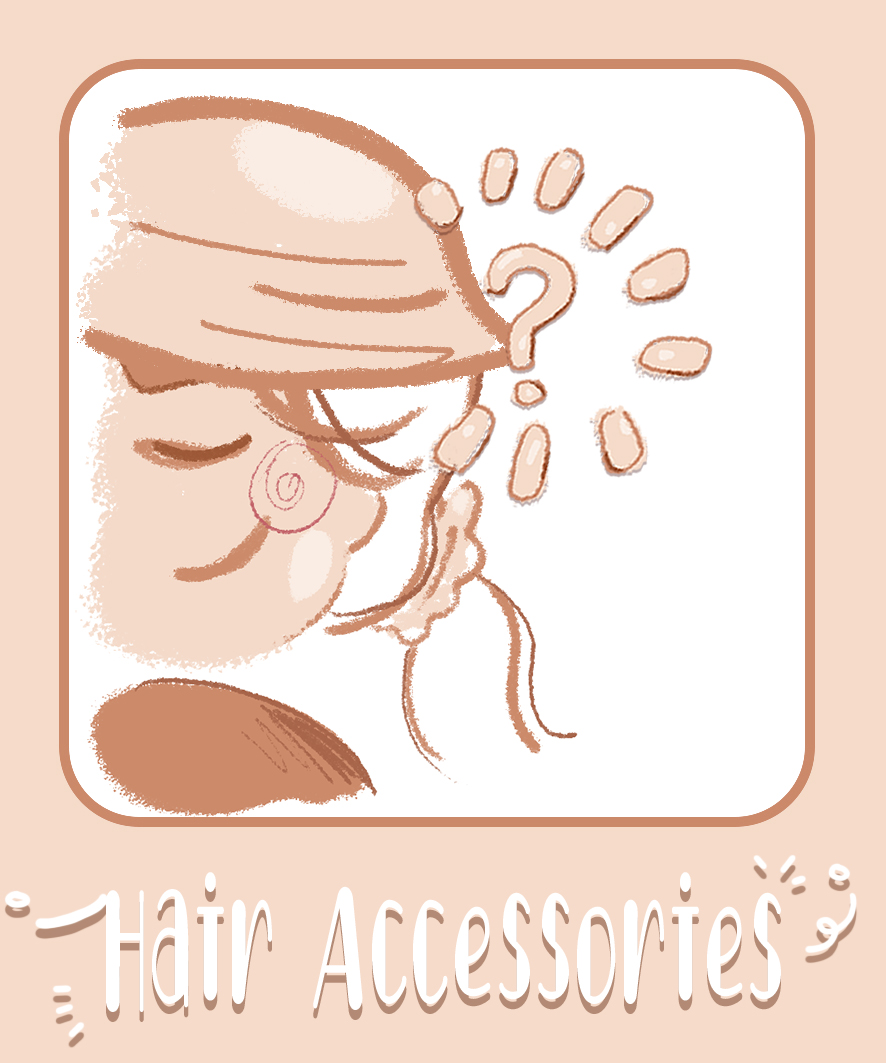
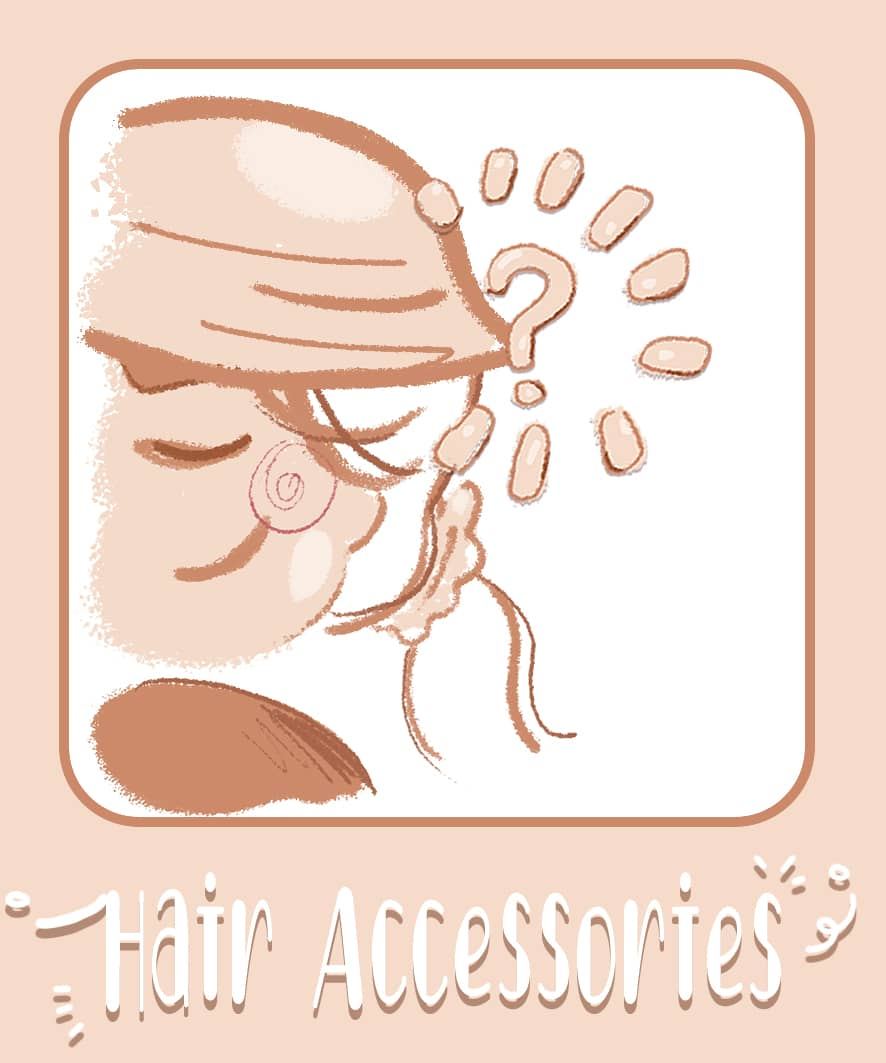
compress img size

diff --git a/src/modules/auth/views/SignupScreen.tsx b/src/modules/auth/views/SignupScreen.tsx
@@ -24,7 +24,7 @@ const SignupScreen = () => {
   const styles = authenticationStyles();
   const data = useStaticQuery(graphql`
     query {
-      file(relativePath: { eq: "icon.png" }) {
+      file(relativePath: { eq: "icon.jpeg" }) {
         childImageSharp {
           gatsbyImageData(placeholder: BLURRED)
         }

diff --git a/src/modules/auth/views/LoginScreen.tsx b/src/modules/auth/views/LoginScreen.tsx
@@ -22,7 +22,7 @@ const LoginScreen = () => {
   const styles = authenticationStyles();
   const data = useStaticQuery(graphql`
     query {
-      file(relativePath: { eq: "icon.png" }) {
+      file(relativePath: { eq: "icon.jpeg" }) {
         childImageSharp {
           gatsbyImageData(placeholder: BLURRED)
         }
